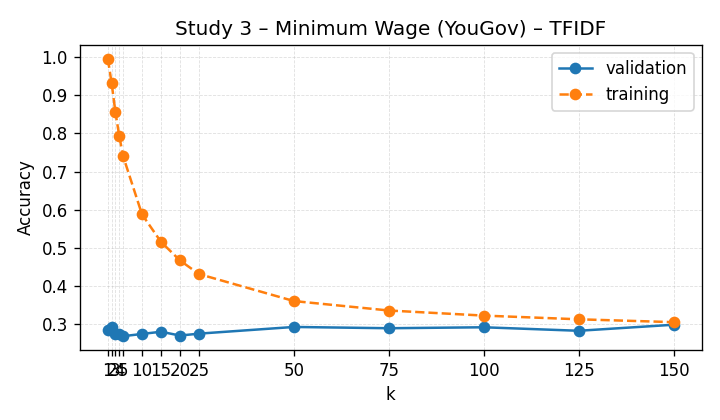
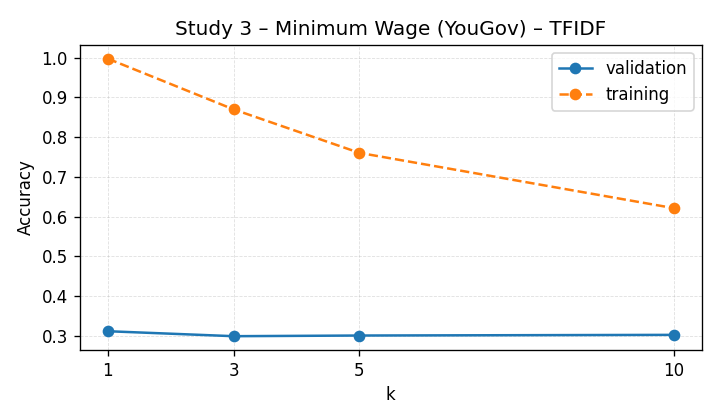
changes

diff --git a/reports/knn/next_video/README.md b/reports/knn/next_video/README.md
@@ -14,9 +14,9 @@ This report summarises the slate-ranking KNN model that predicts the next clicke
 
 | Feature space | Weighted accuracy ↑ | Δ vs baseline ↑ | Random ↑ | Eligible | Studies |
 | --- | ---: | ---: | ---: | ---: | ---: |
-| TFIDF | 0.516 | +0.071 | 0.287 | 1,219 | 2 |
+| TFIDF | 0.408 | -0.054 | 0.271 | 2,419 | 3 |
 
-Best-performing feature space: **TFIDF** with weighted accuracy 0.516 across 1,219 eligible slates (2 studies).
+Best-performing feature space: **TFIDF** with weighted accuracy 0.408 across 2,419 eligible slates (3 studies).
 
 ## TF-IDF Feature Space
 
@@ -24,6 +24,7 @@ Best-performing feature space: **TFIDF** with weighted accuracy 0.516 across 1,2
 | --- | ---: | --- | ---: | ---: | ---: | ---: | ---: | ---: |
 | Study 1 – Gun Control (MTurk) | 0.717 | [0.674, 0.757] | +0.177 | 0.540 | 0.326 | 3 | 548 | 548 |
 | Study 2 – Minimum Wage (MTurk) | 0.352 | [0.316, 0.385] | -0.016 | 0.368 | 0.255 | 3 | 671 | 671 |
+| Study 3 – Minimum Wage (YouGov) | 0.299 | [0.274, 0.327] | -0.180 | 0.479 | 0.255 | 3 | 1,200 | 1,200 |
 
 ## Accuracy Curves
 
@@ -35,10 +36,26 @@ Best-performing feature space: **TFIDF** with weighted accuracy 0.516 across 1,2
 
 ![Accuracy curve](curves/tfidf/study2.png)
 
+### Study 3 – Minimum Wage (YouGov) (TFIDF)
+
+![Accuracy curve](curves/tfidf/study3.png)
+
 ## Observations
 
-- TFIDF: Study 1 – Gun Control (MTurk): 0.717 (baseline 0.540, Δ +0.177, k=3, eligible 548); Study 2 – Minimum Wage (MTurk): 0.352 (baseline 0.368, Δ -0.016, k=3, eligible 671); averages: mean Δ +0.080, mean random 0.291.
+- TFIDF: Study 1 – Gun Control (MTurk): 0.717 (baseline 0.540, Δ +0.177, k=3, eligible 548); Study 2 – Minimum Wage (MTurk): 0.352 (baseline 0.368, Δ -0.016, k=3, eligible 671); Study 3 – Minimum Wage (YouGov): 0.299 (baseline 0.479, Δ -0.180, k=3, eligible 1,200); averages: mean Δ -0.006, mean random 0.279.
 - Random values approximate the accuracy from uniformly guessing across the slate.
 
-Leave-one-study-out metrics were unavailable when this report was generated.
+## Cross-Study Holdouts
+
+## TF-IDF Feature Space
+
+Key holdout takeaways:
+
+- Highest holdout accuracy: Study 1 – Gun Control (MTurk) (0.141) -0.400 vs. baseline.
+- Lowest holdout accuracy: Study 1 – Gun Control (MTurk) (0.141) -0.400 vs. baseline.
+- Average accuracy delta across holdouts: -0.400.
+
+| Holdout study | Accuracy ↑ | Δ vs baseline ↑ | Baseline ↑ | Best k | Eligible |
+| --- | ---: | ---: | ---: | ---: | ---: |
+| Study 1 – Gun Control (MTurk) | 0.141 | -0.400 | 0.540 | 3 | 548 |
 

diff --git a/reports/knn/additional_features/README.md b/reports/knn/additional_features/README.md
@@ -22,6 +22,7 @@ Overview of the supplementary text columns appended to the viewer prompt alongsi
 | --- | --- | --- |
 | tfidf | Study 1 – Gun Control (MTurk) | `viewer_profile`, `state_text` |
 | tfidf | Study 2 – Minimum Wage (MTurk) | `viewer_profile`, `state_text` |
+| tfidf | Study 3 – Minimum Wage (YouGov) | `viewer_profile`, `state_text` |
 
 ## Opinion Regression
 
